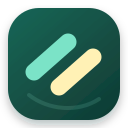
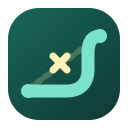
Sekme bağlantı durumunu araç çubuğunda göster (#11)
* Sekme bağlantı durumunu araç çubuğunda göster

* CI çalıştırıcısını daha erişilebilir hale getir

* CI çalıştırıcı ayarını koru

* Sekme bağlantı durumunu gerçek sonuçla eşleştir

* CI doğrulamasını yeniden tetikle

---------

diff --git a/background.js b/background.js
@@ -49,6 +49,9 @@ const RETRYABLE_TYPES = new Set([
 
 const retryCooldowns = new Map();
 const tabIssues = new Map();
+const tabMainHosts = new Map();
+const tabConnectionResults = new Map();
+const tabRoutedHosts = new Map();
 const detectionCandidates = new Map();
 const reloadTimers = new Map();
 const tabRecoveryStates = new Map();
@@ -101,6 +104,8 @@ let debugBuffer = [];
 let debugFlushTimer = null;
 let debugWriteQueue = Promise.resolve();
 let settingsMutationQueue = Promise.resolve();
+let routingSnapshot = { enabled: false, learnedDomains: [] };
+let routingSnapshotReady = null;
 
 function queueSettingsMutation(task) {
   const current = settingsMutationQueue
@@ -226,7 +231,7 @@ async function getSettings() {
   const ignoredDomains = normalizeDomains(saved.ignoredDomains);
   const learnedDomains = normalizeDomains(saved.learnedDomains)
     .filter((domain) => !isCovered(domain, ignoredDomains));
-  return {
+  const settings = {
     ...DEFAULT_SETTINGS,
     ...saved,
     schemaVersion: DEFAULT_SETTINGS.schemaVersion,
@@ -237,7 +242,16 @@ async function getSettings() {
     proxyHost: DEFAULT_SETTINGS.proxyHost,
     proxyPort: normalizePort(saved.proxyPort)
   };
+  routingSnapshot = {
+    enabled: settings.enabled,
+    learnedDomains: settings.learnedDomains
+  };
+  return settings;
 }
+
+routingSnapshotReady = getSettings().catch((error) => {
+  console.debug("Otomatik Erişim ayarları hazırlanamadı", error);
+});
 
 function buildPacScript(settings) {
   const learnedDomains = JSON.stringify(settings.learnedDomains);
@@ -284,52 +298,120 @@ function FindProxyForURL(url, host) {
 }`.trim();
 }
 
-async function setBadge(enabled, hasError = false, learned = false, tabId = null) {
-  await chrome.action.setBadgeText(actionTarget(tabId, {
-    text: hasError ? "!" : learned ? "NEW" : enabled ? "AUTO" : ""
+const BADGE_STATES = Object.freeze({
+  disabled: { text: "×", color: "#64748b", titleKey: "badgeDisabled" },
+  unavailable: { text: "", color: "#64748b", titleKey: "badgeUnavailable" },
+  loading: { text: "", color: "#d97706", titleKey: "badgeChecking" },
+  direct: { text: "", color: "#15803d", titleKey: "badgeDirect" },
+  routed: { text: "↗", color: "#2563eb", titleKey: "badgeRouted" },
+  learned: { text: "+", color: "#0891b2", titleKey: "badgeTargetLearned" },
+  issue: { text: "?", color: "#d97706", titleKey: "badgeIssueContinues" },
+  unreachable: { text: "!", color: "#dc2626", titleKey: "badgeUnreachable" },
+  down: { text: "!", color: "#dc2626", titleKey: "badgeOutageLikely" },
+  gatewayError: { text: "!", color: "#b91c1c", titleKey: "badgeGatewayError" }
+});
+
+async function setConnectionBadge(stateName, tabId = null) {
+  const state = BADGE_STATES[stateName] || BADGE_STATES.direct;
+  await chrome.action.setBadgeText(actionTarget(tabId, { text: state.text }));
+  await chrome.action.setBadgeBackgroundColor(actionTarget(tabId, { color: state.color }));
+  await chrome.action.setTitle(actionTarget(tabId, { title: t(state.titleKey) }));
+}
+
+function connectionStateForTab(settings, tabId) {
+  if (!settings.enabled) return "disabled";
+  if (settings.lastProxyError) return "gatewayError";
+  if (!Number.isInteger(tabId)) return "unavailable";
+  const host = tabMainHosts.get(tabId);
+  if (!host) return "unavailable";
+  if (tabConnectionResults.get(tabId) === "failed") return "unreachable";
+  const routedHosts = tabRoutedHosts.get(tabId);
+  const routedDependency = routedHosts && [...routedHosts]
+    .some((routedHost) => isLearned(routedHost, settings.learnedDomains));
+  if (isLearned(host, settings.learnedDomains) || routedDependency) return "routed";
+  if (tabConnectionResults.get(tabId) === "loading") return "loading";
+  if (tabConnectionResults.get(tabId) !== "success") return "unavailable";
+  return "direct";
+}
+
+function markTabLoading(tabId) {
+  if (!Number.isInteger(tabId) || tabId < 0) return;
+  tabConnectionResults.set(tabId, "loading");
+  tabRoutedHosts.delete(tabId);
+}
+
+async function trackCompletedRoute(details) {
+  await routingSnapshotReady;
+  if (!Number.isInteger(details.tabId) || details.tabId < 0 || !routingSnapshot.enabled) {
+    return false;
+  }
+  const host = getRequestHost(details);
+  if (!host || !isLearned(host, routingSnapshot.learnedDomains)) return false;
+  const routedHosts = tabRoutedHosts.get(details.tabId) || new Set();
+  const changed = !routedHosts.has(host);
+  routedHosts.add(host);
+  tabRoutedHosts.set(details.tabId, routedHosts);
+  return changed;
+}
+
+function updateTabMainHost(tabId, url) {
+  if (!Number.isInteger(tabId) || tabId < 0) return null;
+  let host = null;
+  try {
+    const parsed = new URL(url);
+    if (["http:", "https:"].includes(parsed.protocol)) host = normalizeDomain(parsed.hostname);
+  } catch {}
+  if (host) tabMainHosts.set(tabId, host);
+  else tabMainHosts.delete(tabId);
+  return host;
+}
+
+async function refreshTrackedBadges(settings) {
+  await setConnectionBadge(connectionStateForTab(settings, null));
+  const tabIds = [...tabMainHosts.keys()];
+  const results = await Promise.allSettled(tabIds.map((tabId) => {
+    const issueType = tabIssues.get(tabId);
+    if (issueType) return setIssueBadge(settings.enabled, issueType, tabId);
+    return setConnectionBadge(connectionStateForTab(settings, tabId), tabId);
   }));
-  await chrome.action.setBadgeBackgroundColor(actionTarget(tabId, {
-    color: hasError ? "#dc2626" : learned ? "#2563eb" : "#0f766e"
-  }));
-  await chrome.action.setTitle(actionTarget(tabId, {
-    title: hasError
-      ? t("badgeGatewayError")
-      : learned
-        ? t("badgeTargetLearned")
-        : enabled
-          ? t("badgeDetectionActive")
-          : t("badgeDisabled")
-  }));
+  results.forEach((result, index) => {
+    if (result.status === "fulfilled") return;
+    tabMainHosts.delete(tabIds[index]);
+    tabIssues.delete(tabIds[index]);
+    tabConnectionResults.delete(tabIds[index]);
+    tabRoutedHosts.delete(tabIds[index]);
+  });
 }
 
 async function setIssueBadge(enabled, issueType, tabId) {
   if (!Number.isInteger(tabId) || tabId < 0) return;
   tabIssues.set(tabId, issueType);
   const isDown = issueType === "globally_down";
-  await chrome.action.setBadgeText({ tabId, text: isDown ? "DOWN" : "?" });
-  await chrome.action.setBadgeBackgroundColor({ tabId, color: isDown ? "#dc2626" : "#d97706" });
-  await chrome.action.setTitle({
-    tabId,
-    title: isDown
-      ? t("badgeOutageLikely")
-      : enabled
-        ? t("badgeIssueContinues")
-        : t("badgeDisabled")
-  });
+  const isUnreachable = issueType === "unreachable";
+  await setConnectionBadge(
+    enabled ? (isDown ? "down" : (isUnreachable ? "unreachable" : "issue")) : "disabled",
+    tabId
+  );
 }
 
 async function clearTabIssue(tabId) {
   if (!Number.isInteger(tabId) || tabId < 0) return;
   tabIssues.delete(tabId);
   const settings = await getSettings();
-  await setBadge(settings.enabled, Boolean(settings.lastProxyError), false, tabId);
+  await setConnectionBadge(connectionStateForTab(settings, tabId), tabId);
 }
 
 async function refreshTabBadge(tabId) {
+  if (typeof chrome.tabs?.get === "function") {
+    try {
+      const tab = await chrome.tabs.get(tabId);
+      updateTabMainHost(tabId, tab?.url || "");
+    } catch {}
+  }
   const issueType = tabIssues.get(tabId);
   const settings = await getSettings();
   if (issueType) await setIssueBadge(settings.enabled, issueType, tabId);
-  else await setBadge(settings.enabled, Boolean(settings.lastProxyError), false, tabId);
+  else await setConnectionBadge(connectionStateForTab(settings, tabId), tabId);
 }
 
 async function applyProxy(learnedDomainsOverride = null) {
@@ -337,10 +419,11 @@ async function applyProxy(learnedDomainsOverride = null) {
   const effectiveSettings = Array.isArray(learnedDomainsOverride)
     ? { ...settings, learnedDomains: normalizeDomains(learnedDomainsOverride) }
     : settings;
+  const updateBadges = !Array.isArray(learnedDomainsOverride);
 
   if (!effectiveSettings.enabled || effectiveSettings.learnedDomains.length === 0) {
     await chrome.proxy.settings.clear({ scope: "regular" });
-    await setBadge(effectiveSettings.enabled);
+    if (updateBadges) await refreshTrackedBadges(effectiveSettings);
     return { ok: true, enabled: effectiveSettings.enabled };
   }
 
@@ -348,7 +431,7 @@ async function applyProxy(learnedDomainsOverride = null) {
   if (["not_controllable", "controlled_by_other_extensions"].includes(current.levelOfControl)) {
     const message = t("proxyControlled");
     await chrome.storage.local.set({ lastProxyError: message });
-    await setBadge(true, true);
+    await setConnectionBadge("gatewayError");
     return { ok: false, enabled: true, error: message };
   }
 
@@ -362,7 +445,7 @@ async function applyProxy(learnedDomainsOverride = null) {
 
   await chrome.proxy.settings.set({ value: config, scope: "regular" });
   await chrome.storage.local.set({ lastProxyError: null });
-  await setBadge(true);
+  if (updateBadges) await refreshTrackedBadges({ ...effectiveSettings, lastProxyError: null });
   return { ok: true, enabled: true };
 }
 
@@ -610,6 +693,7 @@ async function verifyLearnedRouteStillNeeded(details) {
     proxyApplied: true
   });
   await clearTabIssue(details.tabId);
+  await refreshTrackedBadges(await getSettings());
   await notifyRecoveredDomain(host).catch(console.error);
   return { checked: true, restored: true, learnedDomains };
 }
@@ -1114,7 +1198,12 @@ async function learnAndRetry(details) {
     }
     return;
   }
-  if (!candidate.ready) return;
+  if (!candidate.ready) {
+    if (details.type === "main_frame") {
+      await setIssueBadge(settings.enabled, "detecting", details.tabId);
+    }
+    return;
+  }
 
   const directlyReachable = await directRequestResponds(details.url);
   const repeatedMainReset = details.type === "main_frame" &&
@@ -1164,7 +1253,7 @@ async function learnAndRetry(details) {
     proxyError: applied.error || null
   });
   if (!applied.ok) return;
-  await setBadge(true, false, true, details.tabId);
+  await setConnectionBadge("learned", details.tabId);
   await notifyLearnedDomain(host).catch(console.error);
   retryLearnedIframe(details, host);
   scheduleInitiatorIframeRetry(details, learnedDomains);
@@ -1341,12 +1430,16 @@ chrome.proxy.onProxyError.addListener(async (details) => {
   await chrome.storage.local.set({ lastProxyError: message });
   await appendDebug("proxy-error", { error: message });
   const settings = await getSettings();
-  await setBadge(settings.enabled, true);
+  await refreshTrackedBadges({ ...settings, lastProxyError: message });
 });
 
 chrome.webRequest.onErrorOccurred.addListener(
   (details) => {
     if (details.tabId < 0) return;
+    if (details.type === "main_frame" && !NON_ACTIONABLE_REQUEST_ERRORS.has(String(details.error || ""))) {
+      updateTabMainHost(details.tabId, details.url);
+      tabConnectionResults.set(details.tabId, "failed");
+    }
     if (details.error === "net::ERR_BLOCKED_BY_CLIENT") {
       return enqueueHostTask(details, () => recordCriticalClientFilter(details));
     }
@@ -1361,13 +1454,26 @@ chrome.webRequest.onErrorOccurred.addListener(
       error: details.error || null,
       initiatorHost: details.initiator ? getRequestHost({ url: details.initiator }) : null
     });
-    return enqueueHostTask(details, () => learnAndRetry(details));
+    return enqueueHostTask(details, async () => {
+      if (details.type === "main_frame") {
+        const settings = await getSettings();
+        await setIssueBadge(settings.enabled, "unreachable", details.tabId);
+      }
+      return learnAndRetry(details);
+    });
   },
   { urls: ["http://*/*", "https://*/*", "ws://*/*", "wss://*/*"] }
 );
 
 chrome.webRequest.onCompleted.addListener(
-  (details) => {
+  async (details) => {
+    const routeChanged = await trackCompletedRoute(details);
+    if (details.type !== "main_frame") {
+      if (routeChanged) return refreshTabBadge(details.tabId).catch(console.error);
+      return;
+    }
+    updateTabMainHost(details.tabId, details.url);
+    tabConnectionResults.set(details.tabId, "success");
     const cancelledRootRetry = cancelTabReload(
       details.tabId,
       "main-completed",
@@ -1384,11 +1490,13 @@ chrome.webRequest.onCompleted.addListener(
     const recoveryCheck = scheduleLearnedRouteRecovery(details).catch(console.error);
     return Promise.all([debugWrite, clearIssue, recoveryCheck]);
   },
-  { urls: ["http://*/*", "https://*/*"], types: ["main_frame"] }
+  { urls: ["http://*/*", "https://*/*", "ws://*/*", "wss://*/*"] }
 );
 
 chrome.webRequest.onBeforeRequest.addListener(
   (details) => {
+    updateTabMainHost(details.tabId, details.url);
+    markTabLoading(details.tabId);
     cancelRouteRecoveryForTab(details.tabId);
     trackMainNavigation(details);
     return clearTabIssue(details.tabId).catch(console.error);
@@ -1400,9 +1508,20 @@ chrome.tabs.onActivated.addListener(({ tabId }) => {
   refreshTabBadge(tabId).catch(console.error);
 });
 
+chrome.tabs.onUpdated.addListener((tabId, changeInfo, tab) => {
+  const url = changeInfo?.url || tab?.url;
+  if (url) updateTabMainHost(tabId, url);
+  if (changeInfo?.status === "loading") markTabLoading(tabId);
+  if (!url && !changeInfo?.status) return;
+  refreshTabBadge(tabId).catch(console.error);
+});
+
 chrome.tabs.onRemoved.addListener((tabId) => {
   cancelRouteRecoveryForTab(tabId);
   tabIssues.delete(tabId);
+  tabMainHosts.delete(tabId);
+  tabConnectionResults.delete(tabId);
+  tabRoutedHosts.delete(tabId);
   tabRecoveryStates.delete(tabId);
   cancelTabReload(tabId, "tab-removed");
   for (const [key, timer] of iframeRetryTimers) {

diff --git a/README_TR.md b/README_TR.md
@@ -4,11 +4,13 @@
 
 Bağlantı hatası yaşayan hedefleri öğrenip yalnız bu alan adlarını kullanıcının bilgisayarındaki yerel SOCKS5 uyumluluk geçidine yönlendiren Manifest V3 Chrome eklentisi.
 
-Güncel sürüm: **4.9.0**
+Güncel sürüm: **4.10.0**
 
 Eklenti arayüzü Chrome'un arayüz dili Türkçeyse Türkçe, diğer bütün dillerde İngilizce gösterilir.
 
 <img src="assets/screenshots/popup-v4-8-en.png" alt="Otomatik Erişim eklentisinin İngilizce arayüzü" width="307">
+
+Proje işareti, engellenmiş doğrudan yolun çevresinden geçen alternatif rotayı gösterir.
 
 ## Temel davranış
 
@@ -22,6 +24,7 @@ Eklenti arayüzü Chrome'un arayüz dili Türkçeyse Türkçe, diğer bütün di
 - Özel, yerel ve link-local IPv4/IPv6 adresleri yönlendirme dışında tutulur.
 - Öğrenilen ve yoksayılan alan adları yalnız `chrome.storage.local` içinde saklanır.
 - Eklenti veya yardımcı DNS sağlayıcısını, sistem DNS ayarlarını ve modem yapılandırmasını değiştirmez.
+- Araç çubuğu ikonu doğrudan ve başarılı bağlantıda yazısız kalır. Yerel geçit kullanıldığında mavi `↗`, yeni rota öğrenildiğinde camgöbeği `+`, süren kontrolde turuncu `?`, erişim veya geçit hatasında kırmızı `!`, kapalı durumda gri `×` gösterilir. Kısa işaretler ikonu kapatmaz; durum hem ana sayfanın sonucunu hem de sekmedeki yönlendirilmiş bağımlılıkları izler.
 
 Bu araç VPN değildir; IP adresini veya ülkeyi değiştirmez. Yalnız kullanıcının erişim yetkisi bulunan hedeflerde ve yürürlükteki kurallara uygun kullanılmalıdır.
 

diff --git a/README.md b/README.md
@@ -4,11 +4,13 @@
 
 A Manifest V3 Chrome extension that learns targets experiencing connection errors and routes only those exact domains through a local SOCKS5 compatibility gateway.
 
-Current version: **4.9.0**
+Current version: **4.10.0**
 
 The extension UI follows Chrome's interface language: Turkish for Turkish browsers and English for every other language.
 
 <img src="assets/screenshots/popup-v4-8-en.png" alt="Automatic Access extension popup in English" width="307">
+
+The project mark depicts an alternate route bending around a blocked direct path.
 
 ## Core behavior
 
@@ -22,6 +24,7 @@ The extension UI follows Chrome's interface language: Turkish for Turkish browse
 - Private, local, and link-local IPv4/IPv6 addresses are excluded from routing.
 - Learned and ignored domains are stored only in `chrome.storage.local`.
 - The extension and helper do not change DNS providers, system DNS settings, or router configuration.
+- The toolbar icon stays unobstructed after a successful direct connection. It shows a blue `↗` when the local gateway is used, cyan `+` for a newly learned route, amber `?` while an issue is being checked, red `!` for an access or gateway failure, and gray `×` when disabled. These compact marks reflect both the main-page result and routed dependencies used by the tab.
 
 This tool is not a VPN. It does not change your IP address or country. Use it only for targets you are authorized to access and in accordance with applicable rules.
 
